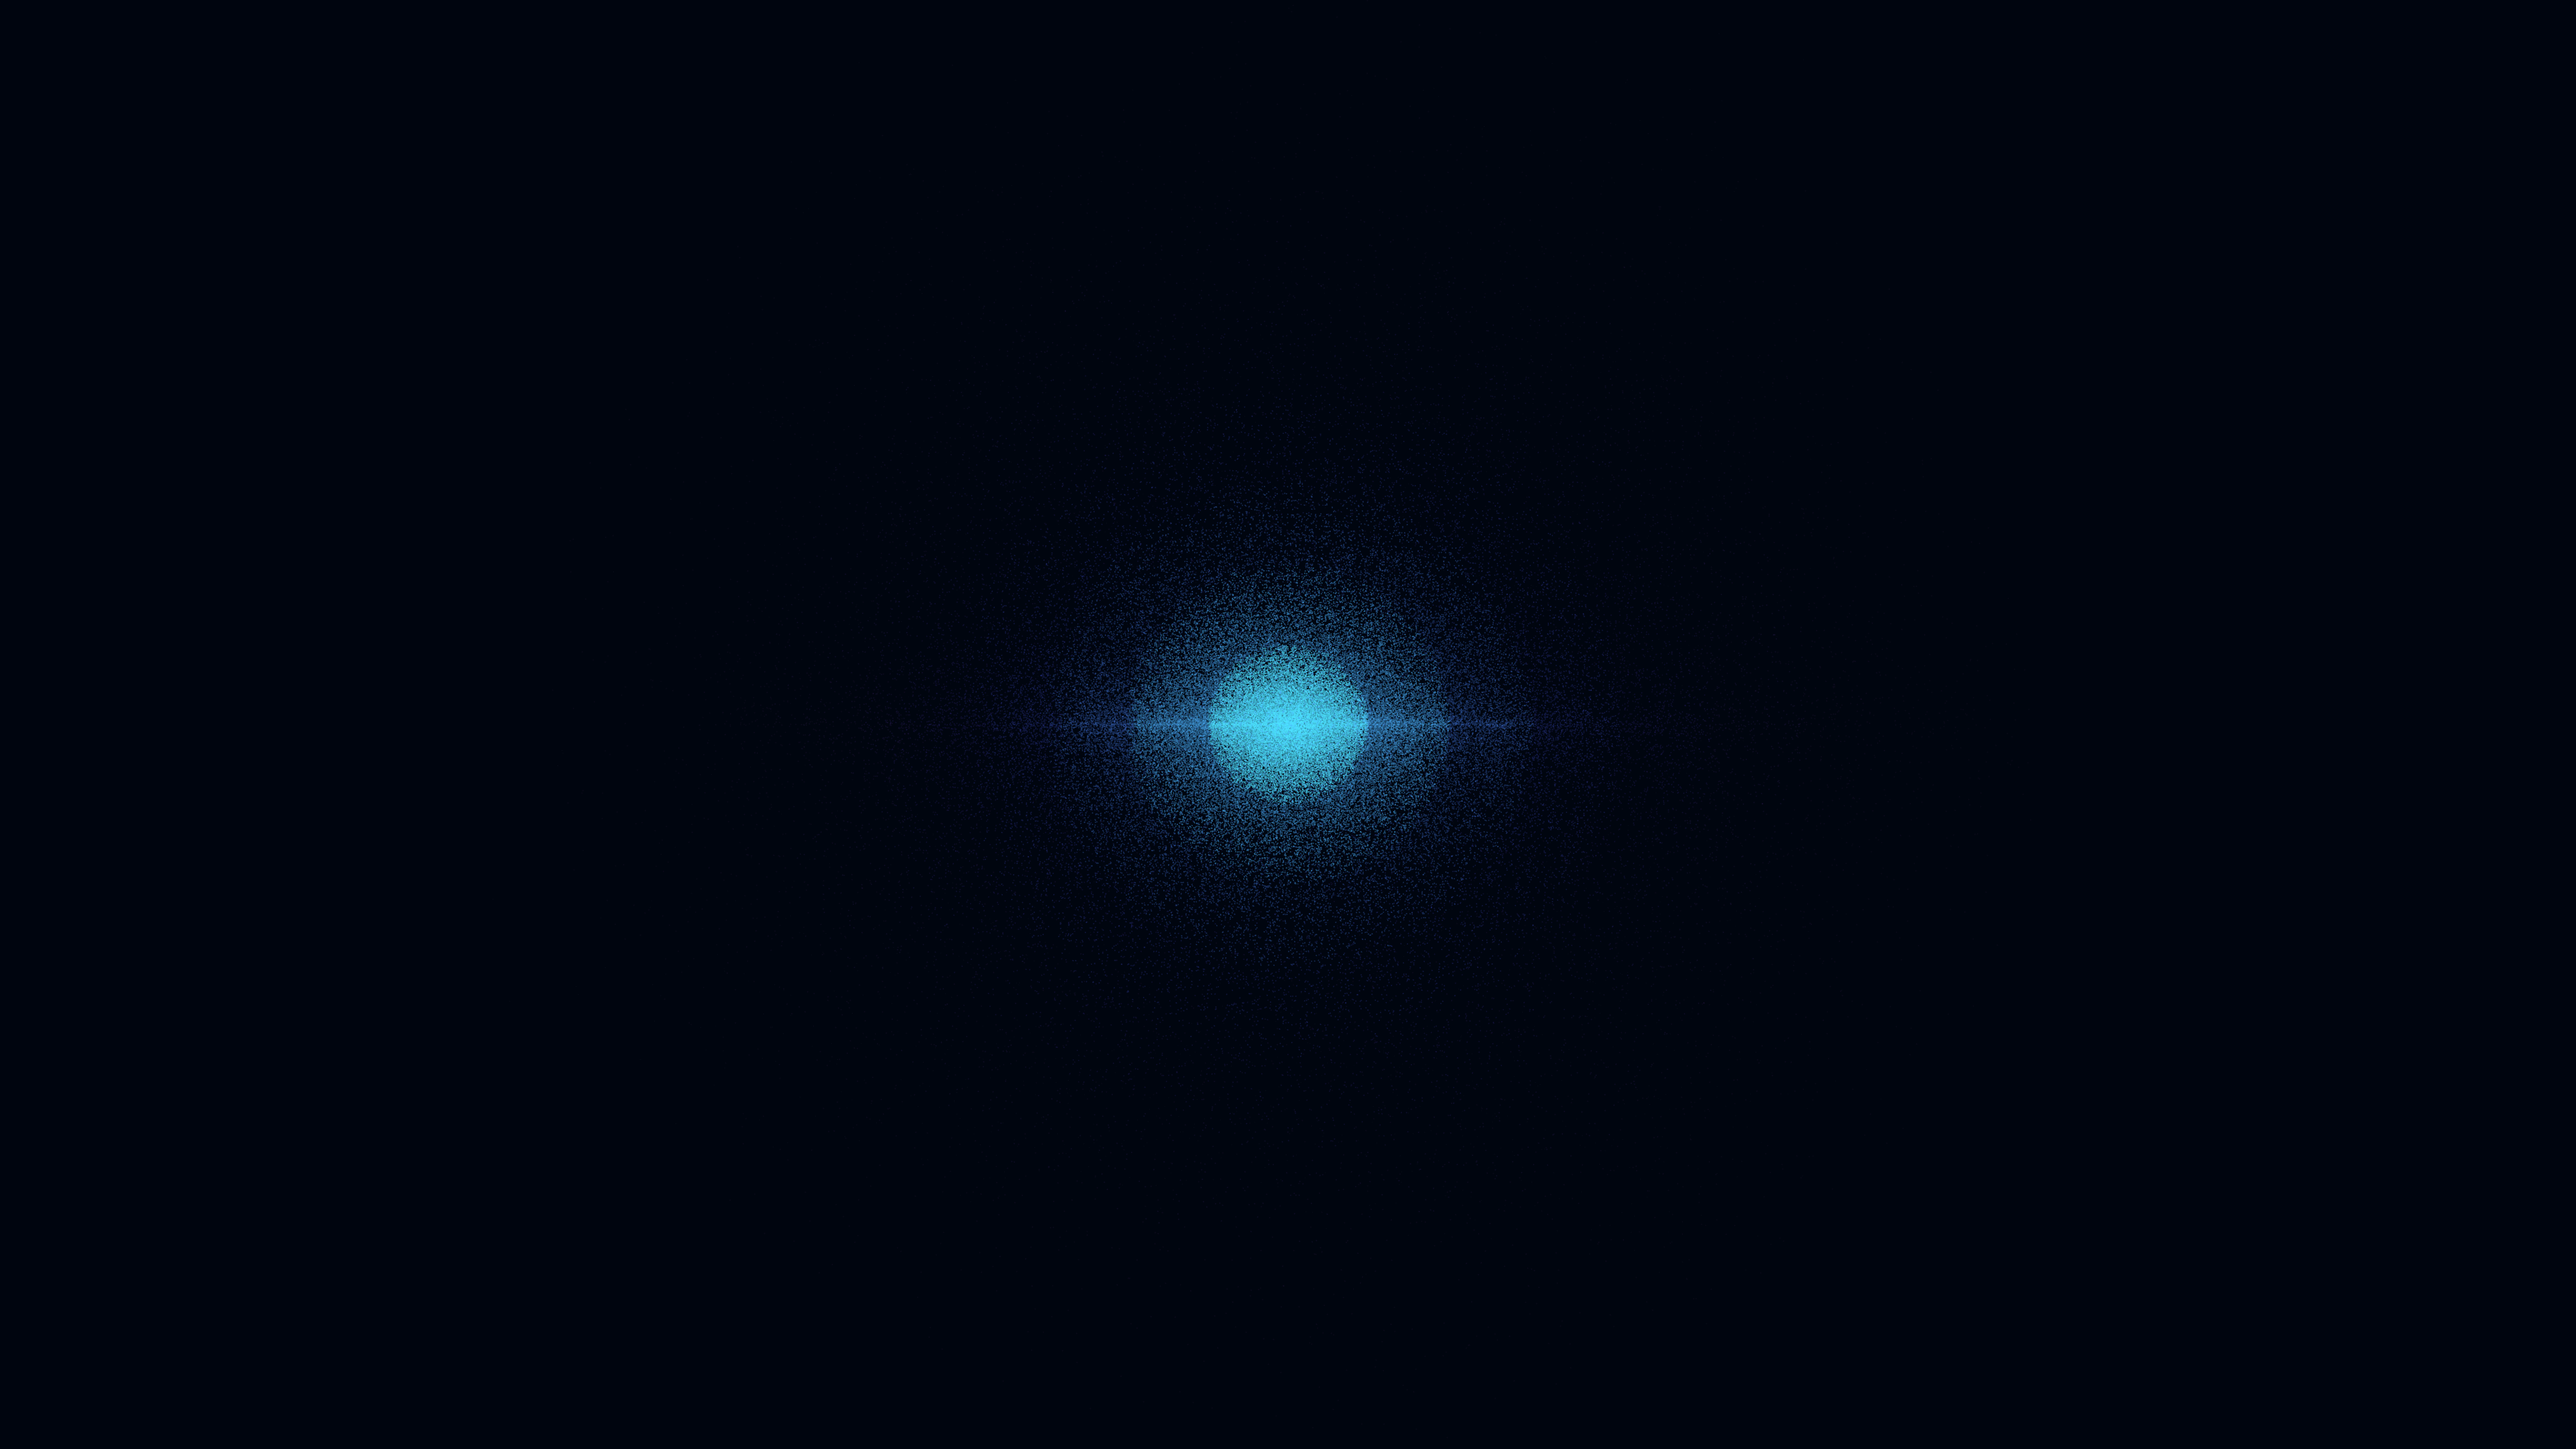
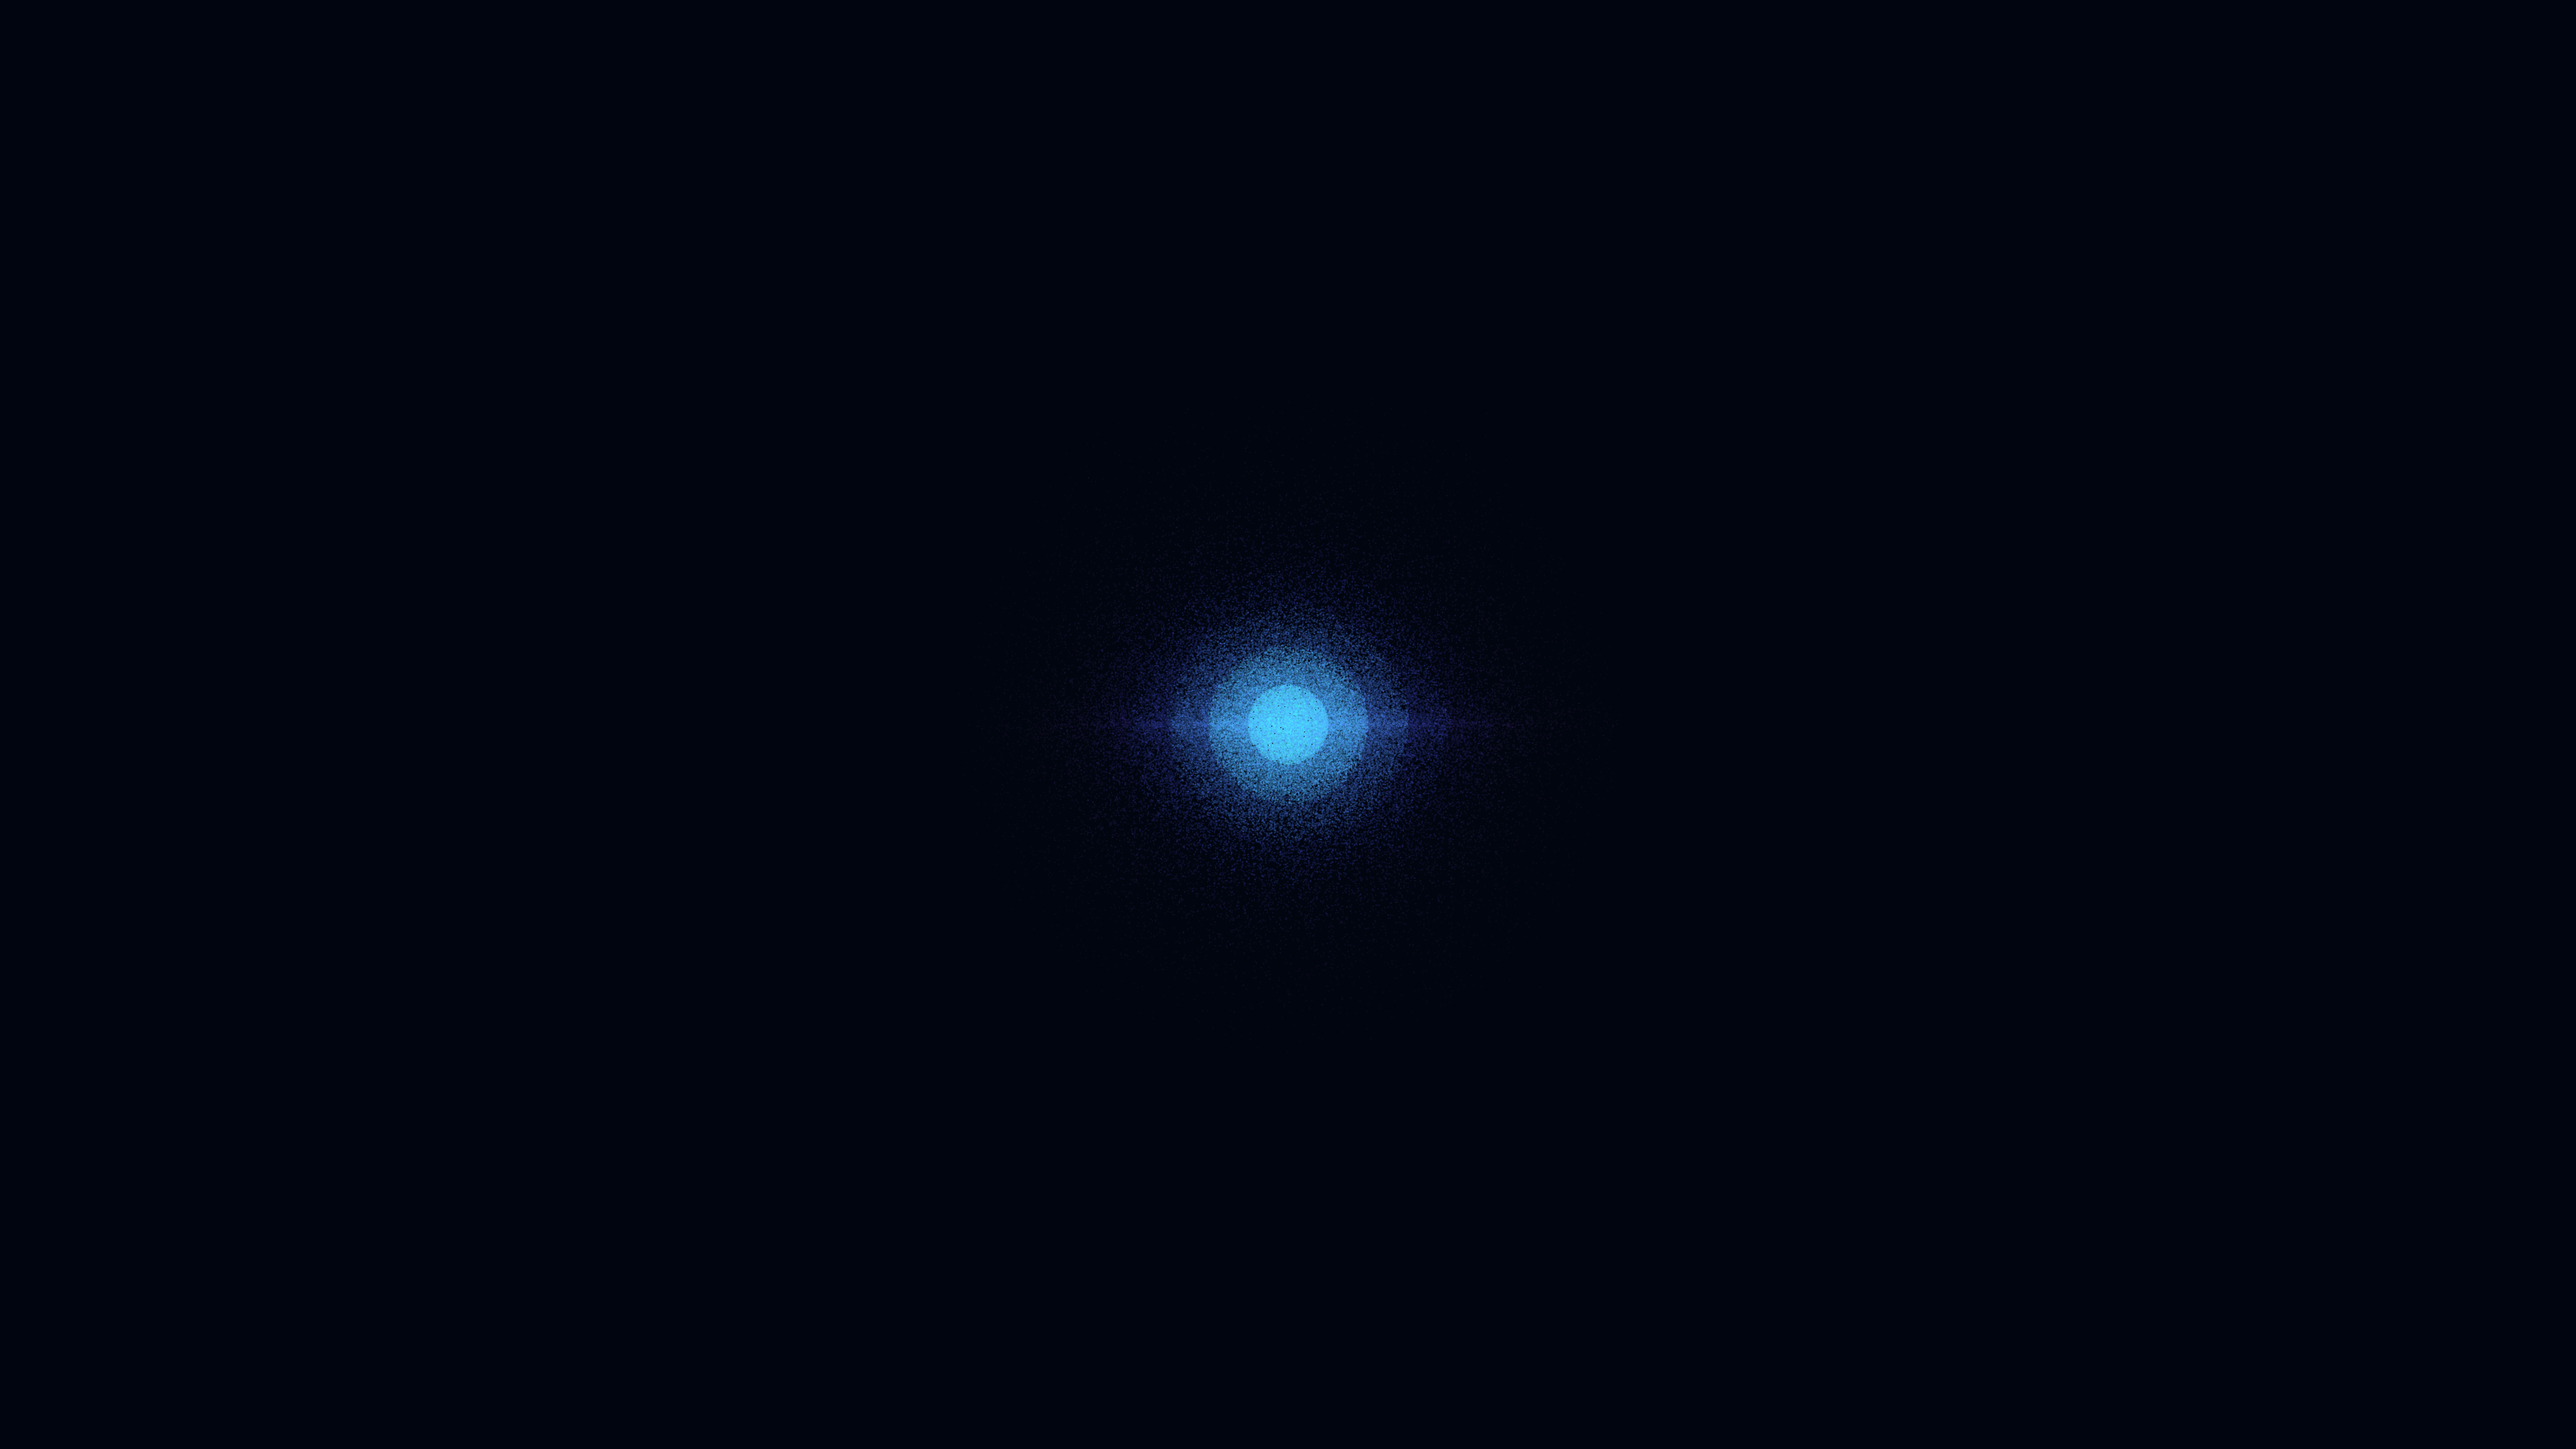
feat: upgrade anderson_localization_mesh to 4K resolution and render output

Changed region(s): [[0.375, 0.3412, 0.625, 0.6514]]

diff --git a/sketch/anderson_localization_mesh/main.py b/sketch/anderson_localization_mesh/main.py
@@ -18,7 +18,8 @@ DURATION_SEC = 15
 FPS = 60
 TOTAL_FRAMES = DURATION_SEC * FPS
 PREVIEW_FILENAME = f"{WORK_NAME}_p1.png"
-PREVIEW_SIZE, OUTPUT_SIZE, SIZE = get_sizes()
+PREVIEW_SIZE, OUTPUT_SIZE, _ = get_sizes()
+SIZE = OUTPUT_SIZE  # Force 4K resolution (3840x2160)
 
 # Simulation Parameters
 NUM_PARTICLES = 150000
@@ -63,14 +64,24 @@ class AndersonSimulation:
 
 sim = AndersonSimulation(NUM_PARTICLES)
 
+import shutil
+
 def setup():
     py5.size(*SIZE, py5.P3D)
+    py5.pixel_density(1)  # Capping at 1x density prevents Retina-doubling lag on 4K renders
     py5.smooth(8)
+    if FRAMES_DIR.exists():
+        shutil.rmtree(FRAMES_DIR)
     FRAMES_DIR.mkdir(exist_ok=True)
     py5.background(0, 5, 15)
 
 def draw():
     t = py5.frame_count
+    
+    # Progress logs to prevent command timeouts
+    if t % 60 == 0:
+        print(f"[Render Progress] Frame {t}/{TOTAL_FRAMES} ({t/TOTAL_FRAMES*100:.1f}%)")
+        
     py5.background(0, 5, 15)
     
     # 3D Camera
@@ -79,12 +90,9 @@ def draw():
     py5.rotate_y(t * 0.003)
     py5.rotate_z(t * 0.001)
     
-    # Draw Disordered Grid (Subtle)
+    # Draw Disordered Grid (Subtle) - Balanced for 4K
     py5.stroke(200, 200, 255, 15)
-    py5.stroke_weight(0.5)
-    # Draw some grid lines
-    # To be fast, we'll only draw a subset of lines
-    # Let's just draw nodes as small points
+    py5.stroke_weight(1.5)
     py5.points(sim.grid_nodes)
     
     # Draw Localized Wavefunction
@@ -94,7 +102,7 @@ def draw():
     dist = np.linalg.norm(points, axis=1)
     # Closer = Brighter Cyan, Further = Fainter Amethyst
     
-    py5.stroke_weight(1.0)
+    py5.stroke_weight(2.5)  # Balanced for 4K
     for i in range(8):
         r_low = i * 60
         r_high = (i + 1) * 60
@@ -114,14 +122,25 @@ def draw():
 
     if py5.frame_count >= TOTAL_FRAMES:
         py5.exit_sketch()
+        
+        print(f"[Render FFmpeg] Compiling {TOTAL_FRAMES} frames into 4K video...")
         subprocess.run([
             "ffmpeg", "-y", "-r", str(FPS),
             "-i", str(FRAMES_DIR / "frame-%04d.png"),
             "-vcodec", "libx264", "-pix_fmt", "yuv420p",
-            "-crf", "28",
+            "-crf", "22",
             str(SKETCH_DIR / f"{WORK_NAME}.mp4"),
         ], check=True)
+        
+        # Mirror output
+        subprocess.run(["cp", str(SKETCH_DIR / f"{WORK_NAME}.mp4"), str(SKETCH_DIR / "output.mp4")], check=True)
+        
         mid = str(FRAMES_DIR / f"frame-{TOTAL_FRAMES // 2:04d}.png")
         subprocess.run(["cp", mid, str(SKETCH_DIR / PREVIEW_FILENAME)], check=True)
+        
+        # Clean up temporary frames
+        if FRAMES_DIR.exists():
+            shutil.rmtree(FRAMES_DIR)
+            print("[Render Cleanup] Temporary frames directory successfully removed.")
 
 py5.run_sketch()
